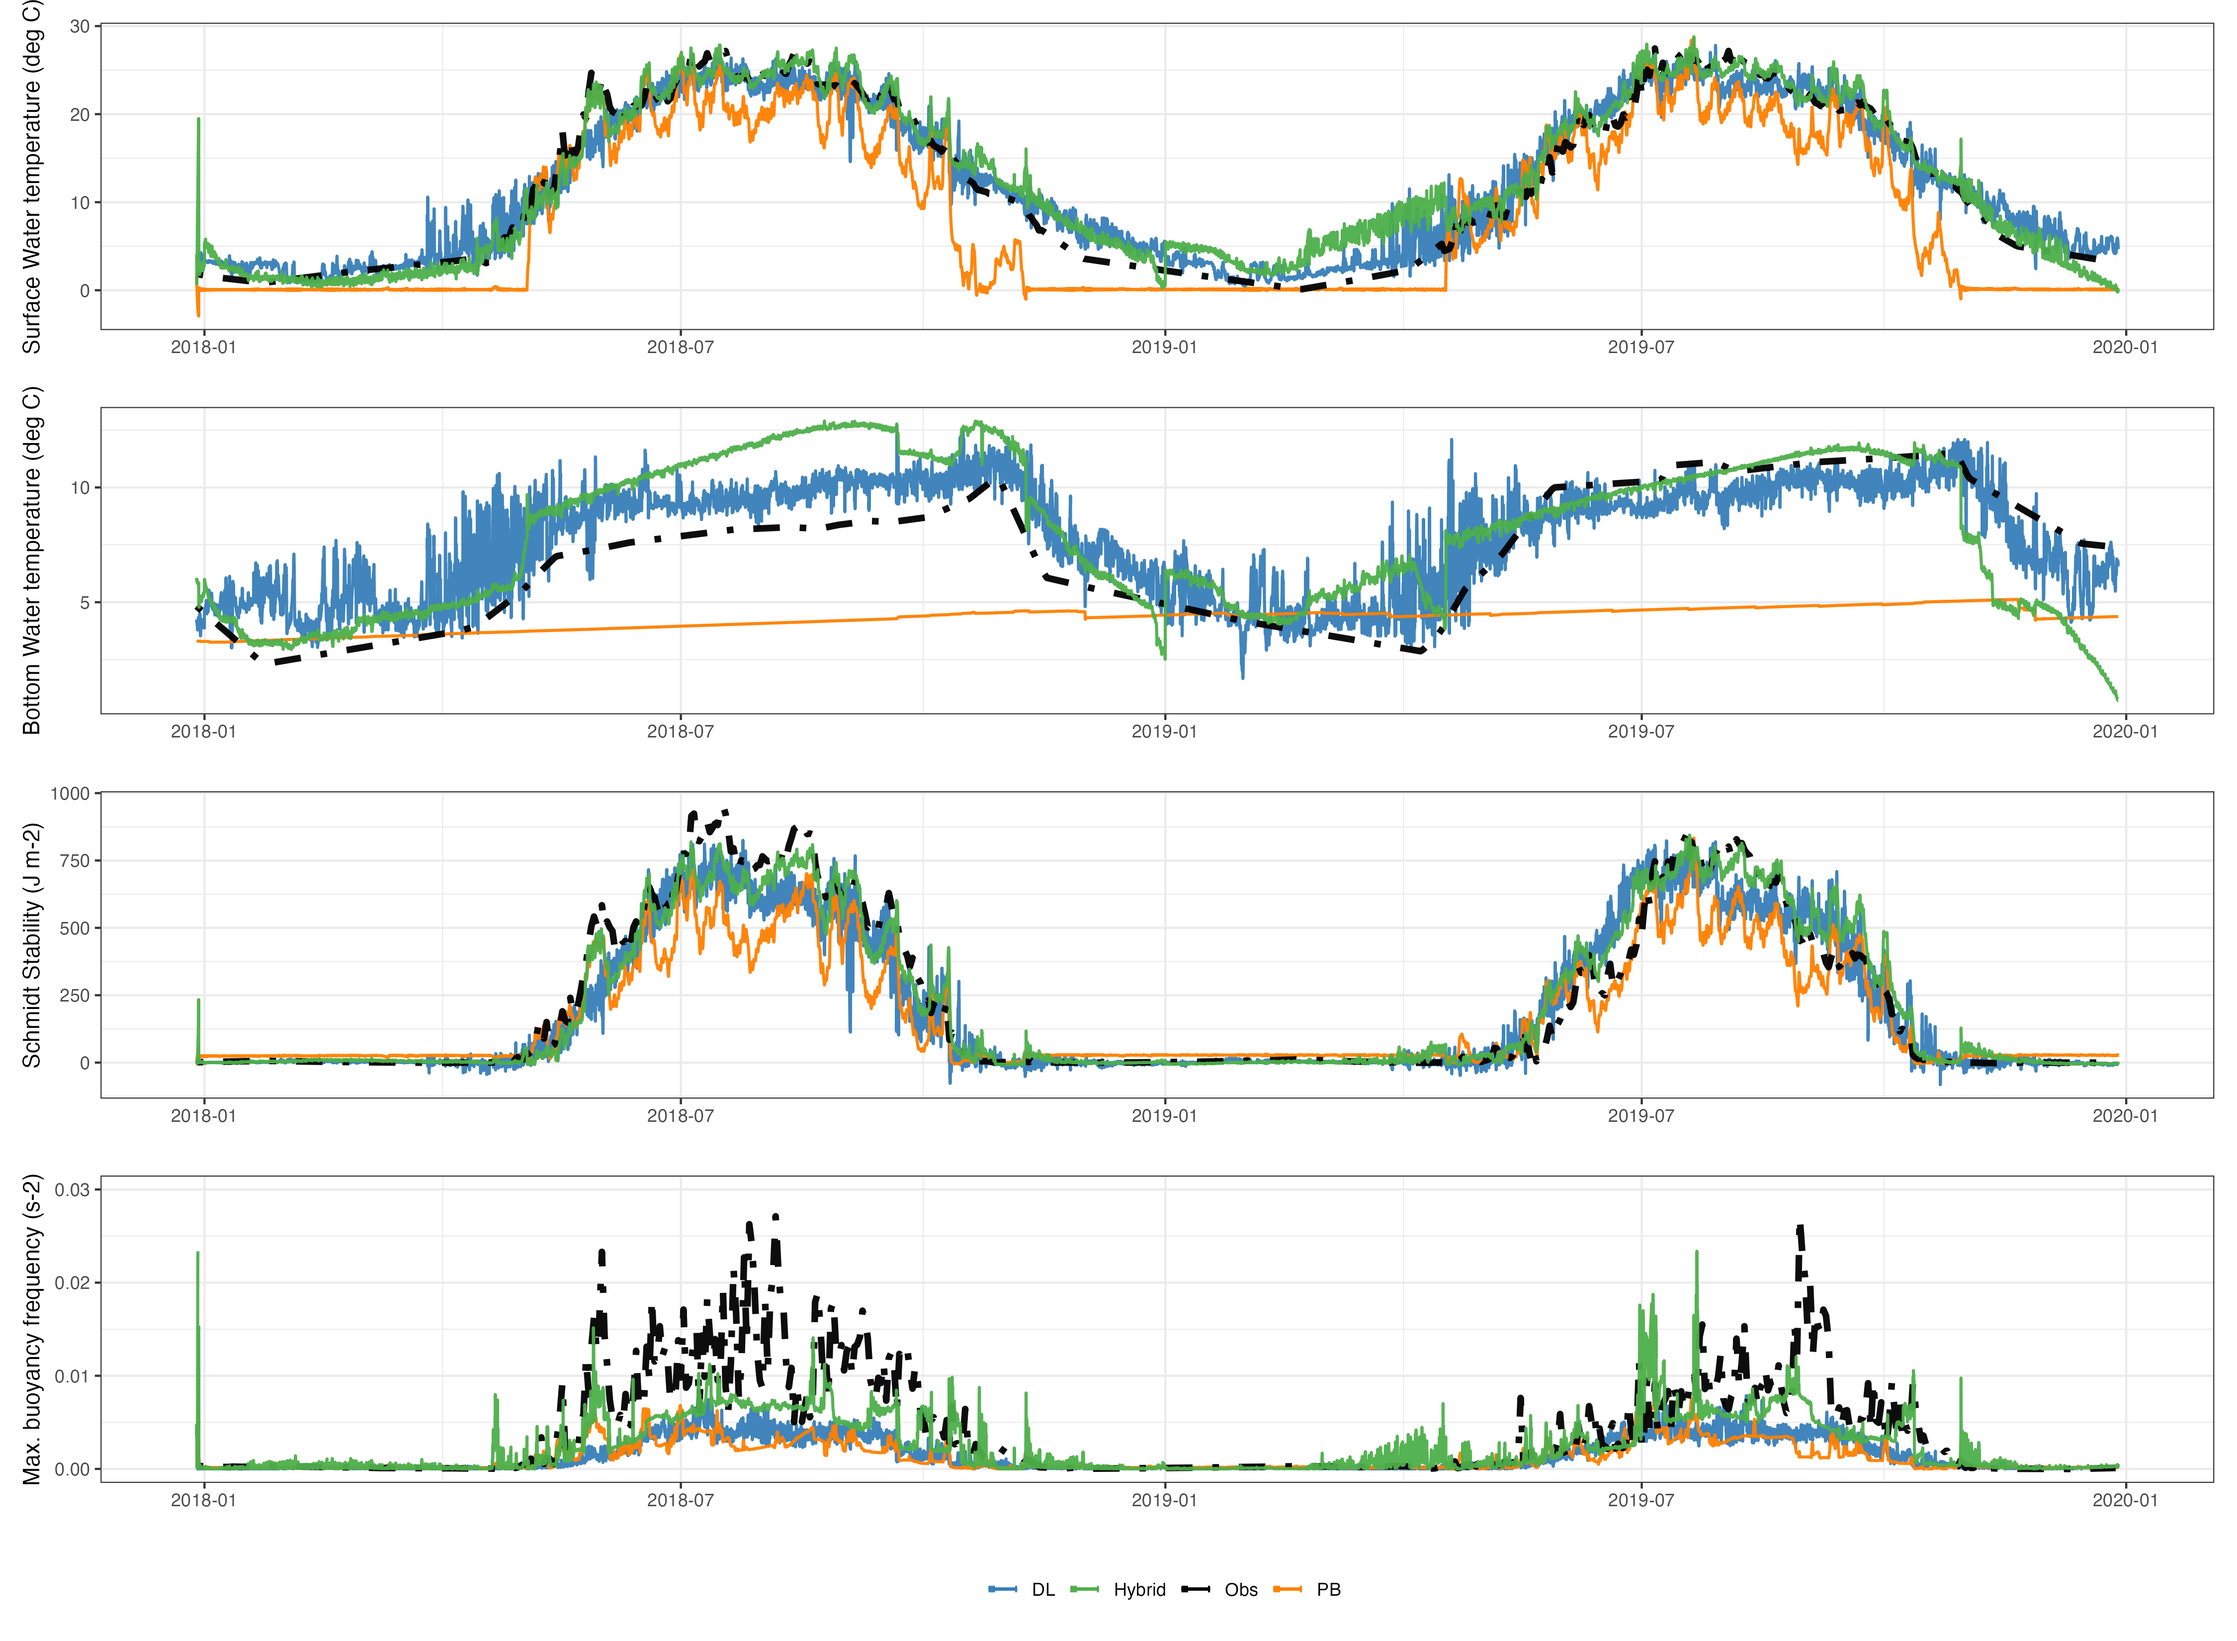
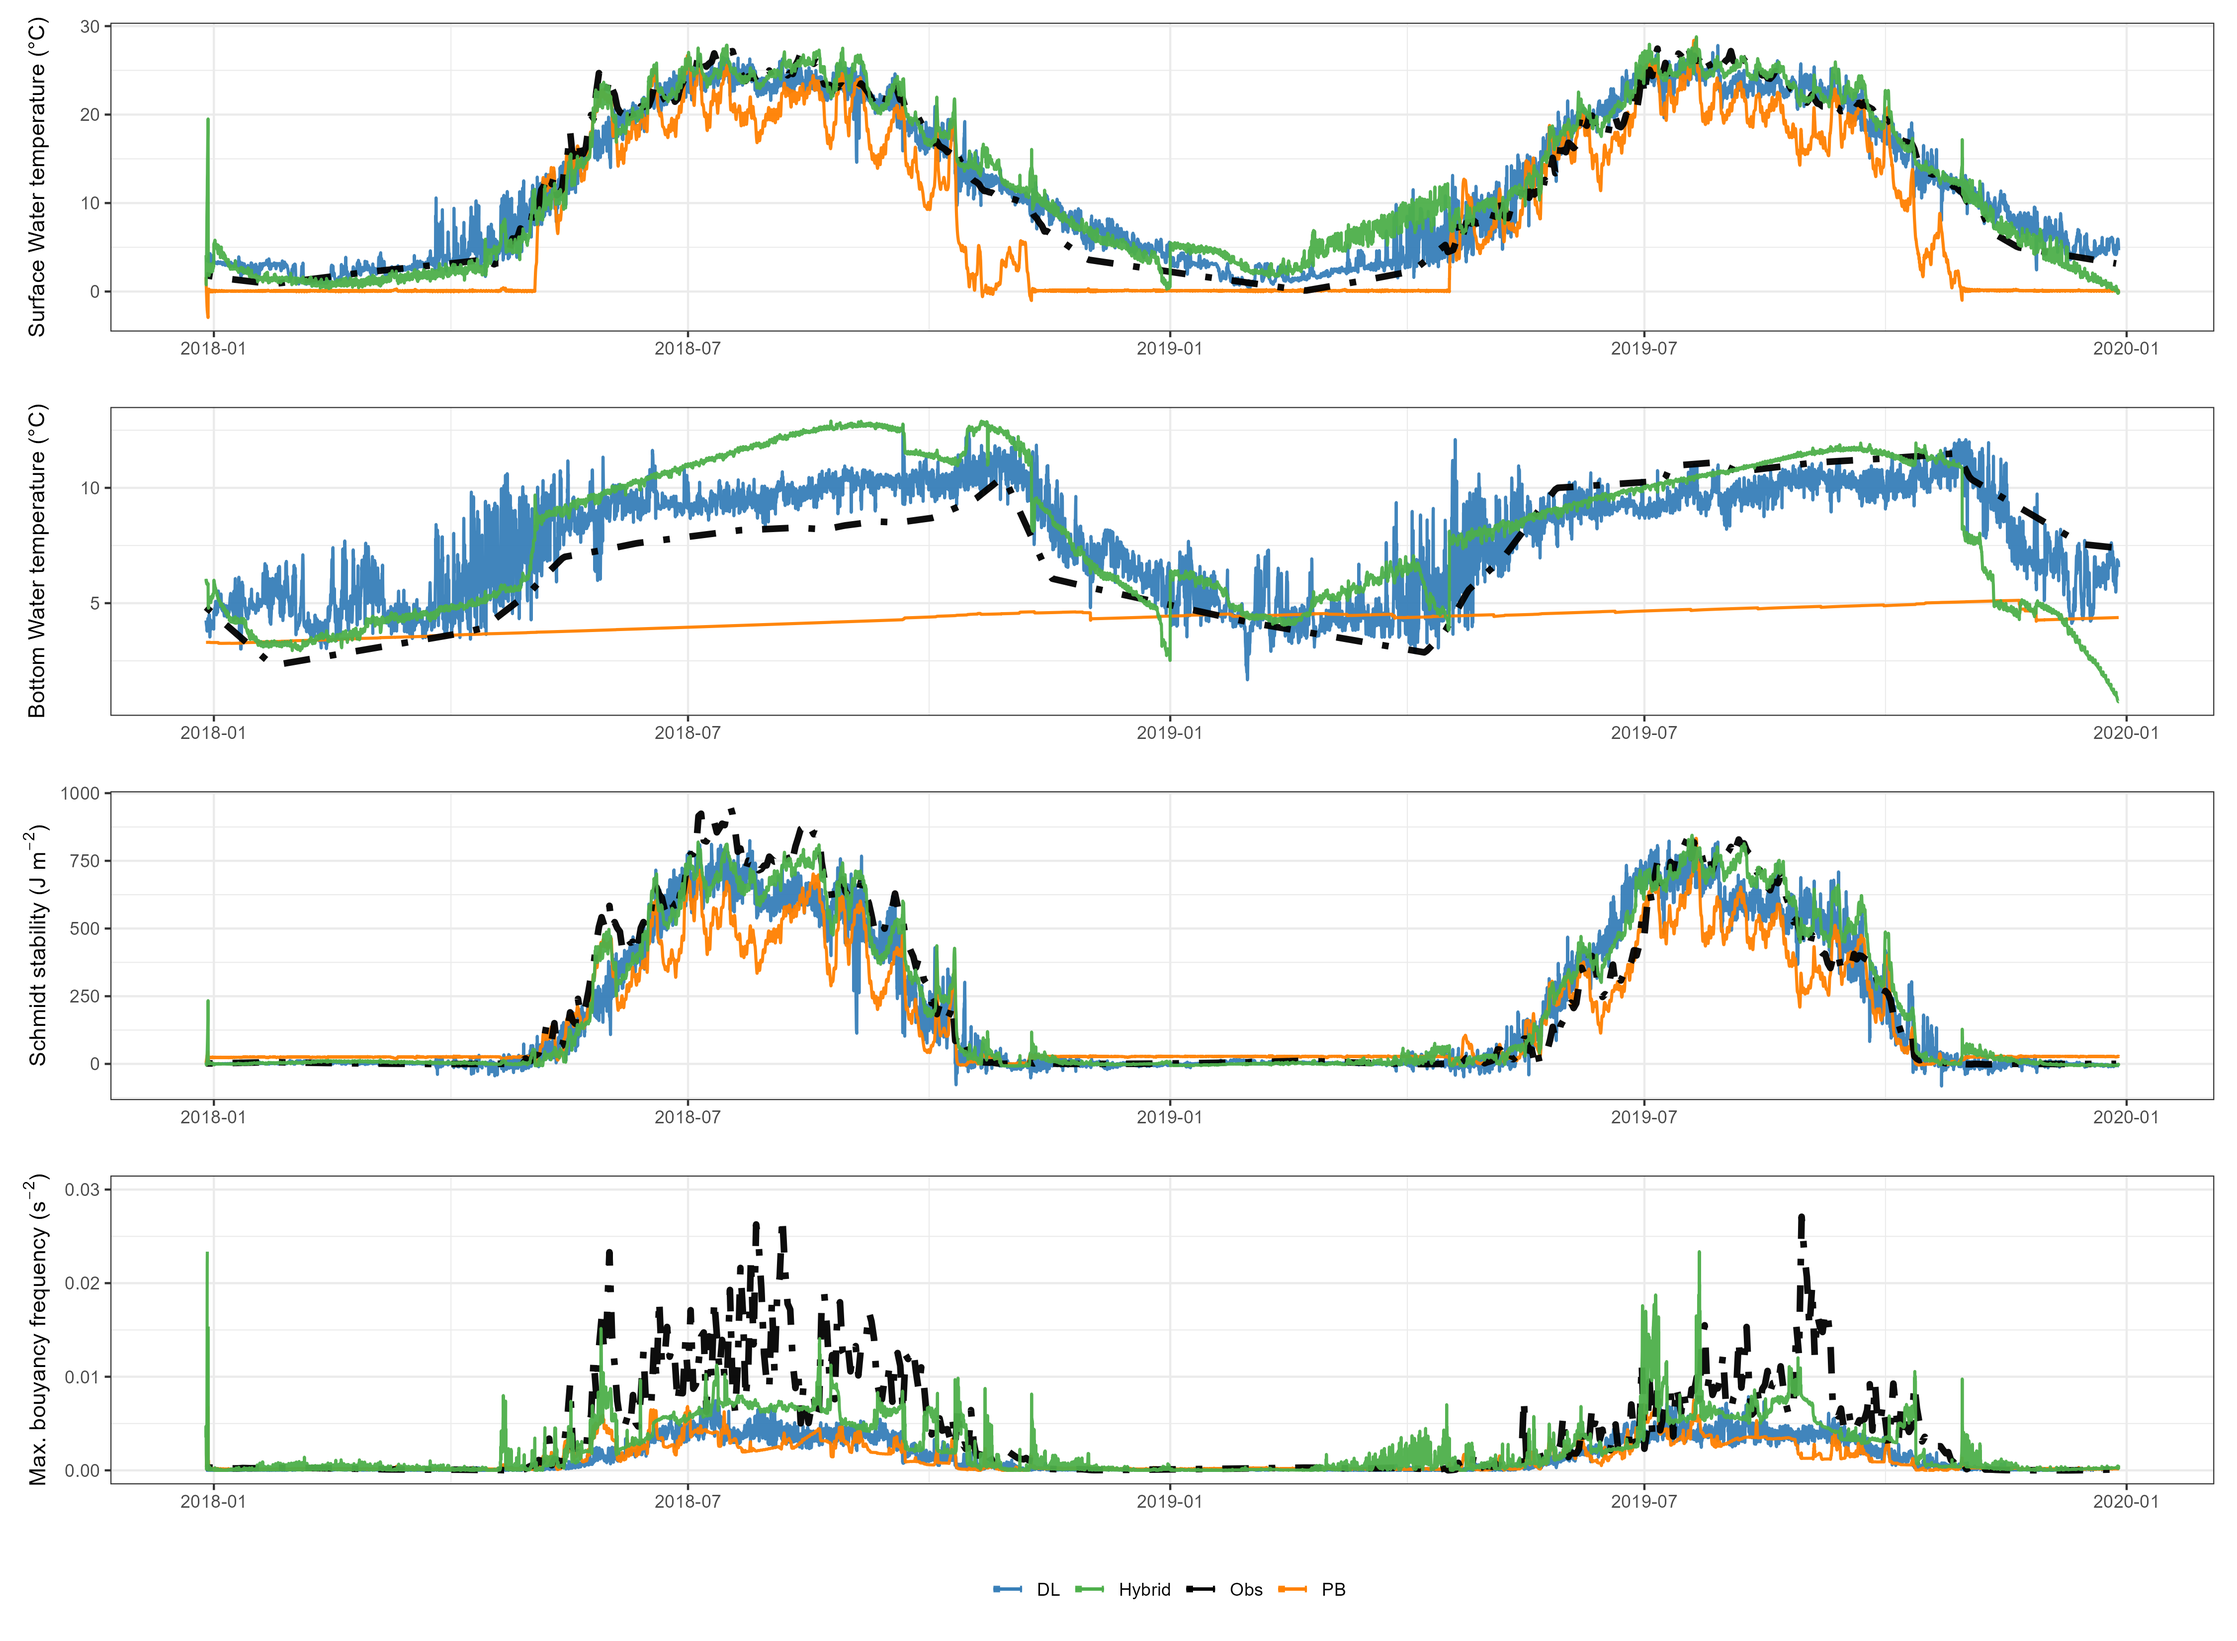
updated figs

diff --git a/src/run_DemoProcessModel.py b/src/run_DemoProcessModel.py
@@ -262,15 +262,27 @@ plt.show()
 
 # heatmap of temps  
 N_pts = 6
-fig, ax = plt.subplots(figsize=(10,8))
+
+## function to calculate density from temperature
+
+def calc_dens(wtemp):
+    dens = (999.842594 + (6.793952 * 1e-2 * wtemp) - (9.095290 * 1e-3 *wtemp**2) +
+      (1.001685 * 1e-4 * wtemp**3) - (1.120083 * 1e-6* wtemp**4) + 
+      (6.536336 * 1e-9 * wtemp**5))
+    return dens
+
+fig, ax = plt.subplots(figsize=(20,10))
 sns.heatmap(temp, cmap=plt.cm.get_cmap('Spectral_r'),  xticklabels=1000, yticklabels=2, vmin = 0, vmax = 35)
+ax.contour(np.arange(.5, temp.shape[1]), np.arange(.5, temp.shape[0]), calc_dens(temp), levels=[998,999.5],
+           colors=['white', 'gray'],
+           linestyles = 'dotted')
 ax.set_ylabel("Depth", fontsize=15)
 ax.set_xlabel("Time", fontsize=15)    
-ax.collections[0].colorbar.set_label("Hybrid Temperature")
+ax.collections[0].colorbar.set_label("Water Temperature  ($^\circ$C)")
 xticks_ix = np.array(ax.get_xticks()).astype(int)
 time_label = times[xticks_ix]
 nelement = len(times)//N_pts
-time_label = time_label[::nelement]
+#time_label = time_label[::nelement]
 ax.xaxis.set_major_locator(plt.MaxNLocator(N_pts))
 ax.set_xticklabels(time_label, rotation=0)
 plt.show()
@@ -294,6 +306,7 @@ perf_obs = dt_obs[dt_obs != -999]
 perfs_sim = temp[dt_obs != -999]
 
 rmse = sqrt((sum((perfs_sim - perf_obs)**2)) / (len(perf_obs)))
+nse = 1 - ((sum((perf_obs - perfs_sim)**2)) / (sum((perf_obs - np.mean(perf_obs))**2)))
 train = sqrt((sum((perfs_sim[0:n_obs] - perf_obs[0:n_obs])**2)) / (n_obs))
 test = sqrt((sum((perfs_sim[(n_obs+1):len(perfs_sim)] - perf_obs[(n_obs+1):len(perf_obs)])**2)) / ((len(perf_obs)- n_obs)))
 
@@ -308,16 +321,18 @@ test = sqrt((sum((perfs_sim[(n_obs+1):len(perfs_sim)] - perf_obs[(n_obs+1):len(p
 # sqrt(sum((temp[0,:] - dt_obs[0,:])**2) / (len(temp[0,:])))
 # sqrt(sum((temp[49,:] - dt_obs[49,:])**2) / (len(temp[49,:])))
 
-N_pts = 6
-fig, ax = plt.subplots(figsize=(10,8))
-sns.heatmap(dt_obs, cmap=plt.cm.get_cmap('Spectral_r'),  xticklabels=1000, yticklabels=2)
+fig, ax = plt.subplots(figsize=(20,10))
+sns.heatmap(dt_obs, cmap=plt.cm.get_cmap('Spectral_r'),  xticklabels=1000, yticklabels=2, vmin = 0, vmax = 35)
+ax.contour(np.arange(.5, temp.shape[1]), np.arange(.5, temp.shape[0]), calc_dens(dt_obs), levels=[998,999.5],
+           colors=['white', 'gray'],
+           linestyles = 'dotted')
 ax.set_ylabel("Depth", fontsize=15)
 ax.set_xlabel("Time", fontsize=15)    
-ax.collections[0].colorbar.set_label("Hybrid Temperature")
+ax.collections[0].colorbar.set_label("Water Temperature  ($^\circ$C)")
 xticks_ix = np.array(ax.get_xticks()).astype(int)
 time_label = times[xticks_ix]
 nelement = len(times)//N_pts
-time_label = time_label[::nelement]
+#time_label = time_label[::nelement]
 ax.xaxis.set_major_locator(plt.MaxNLocator(N_pts))
 ax.set_xticklabels(time_label, rotation=0)
 plt.show()

diff --git a/src/run_HybridModel.py b/src/run_HybridModel.py
@@ -7,6 +7,7 @@ from copy import deepcopy
 import datetime
 import matplotlib.pyplot as plt
 import seaborn as sns
+from scipy import ndimage
 
 from sklearn.preprocessing import StandardScaler
 import torch
@@ -228,15 +229,24 @@ plt.show()
 # heatmap of temps  
 N_pts = 6
 
-fig, ax = plt.subplots(figsize=(10,8))
+def calc_dens(wtemp):
+    dens = (999.842594 + (6.793952 * 1e-2 * wtemp) - (9.095290 * 1e-3 *wtemp**2) +
+      (1.001685 * 1e-4 * wtemp**3) - (1.120083 * 1e-6* wtemp**4) + 
+      (6.536336 * 1e-9 * wtemp**5))
+    return dens
+
+fig, ax = plt.subplots(figsize=(20,10))
 sns.heatmap(temp, cmap=plt.cm.get_cmap('Spectral_r'),  xticklabels=1000, yticklabels=2, vmin = 0, vmax = 35)
+ax.contour(np.arange(.5, temp.shape[1]), np.arange(.5, temp.shape[0]), calc_dens(temp), levels=[998,999.5],
+           colors=['white', 'gray'],
+           linestyles = 'dotted')
 ax.set_ylabel("Depth", fontsize=15)
 ax.set_xlabel("Time", fontsize=15)    
-ax.collections[0].colorbar.set_label("Hybrid Temperature")
+ax.collections[0].colorbar.set_label("Water Temperature  ($^\circ$C)")
 xticks_ix = np.array(ax.get_xticks()).astype(int)
 time_label = times[xticks_ix]
 nelement = len(times)//N_pts
-time_label = time_label[::nelement]
+#time_label = time_label[::nelement]
 ax.xaxis.set_major_locator(plt.MaxNLocator(N_pts))
 ax.set_xticklabels(time_label, rotation=0)
 plt.show()
@@ -271,23 +281,25 @@ perf_obs = dt_obs[dt_obs != -999]
 perfs_sim = temp[dt_obs != -999]
 
 rmse = sqrt((sum((perfs_sim - perf_obs)**2)) / (len(perf_obs)))
+nse = 1 - ((sum((perf_obs - perfs_sim)**2)) / (sum((perf_obs - np.mean(perf_obs))**2)))
 train = sqrt((sum((perfs_sim[0:n_obs] - perf_obs[0:n_obs])**2)) / (n_obs))
 test = sqrt((sum((perfs_sim[(n_obs+1):len(perfs_sim)] - perf_obs[(n_obs+1):len(perf_obs)])**2)) / ((len(perf_obs)- n_obs)))
 
 
 # heatmap of temps  
-fig, ax = plt.subplots(figsize=(10,8))
+fig, ax = plt.subplots(figsize=(20,10))
 sns.heatmap(dt_obs, cmap=plt.cm.get_cmap('Spectral_r'),  xticklabels=1000, yticklabels=2, vmin = 0, vmax = 35)
 ax.set_ylabel("Depth", fontsize=15)
 ax.set_xlabel("Time", fontsize=15)    
-ax.collections[0].colorbar.set_label("Observed Temperature")
+ax.collections[0].colorbar.set_label("Water Temperature  ($^\circ$C)")
 xticks_ix = np.array(ax.get_xticks()).astype(int)
 time_label = times[xticks_ix]
 nelement = len(times)//N_pts
-time_label = time_label[::nelement]
+#time_label = time_label[::nelement]
 ax.xaxis.set_major_locator(plt.MaxNLocator(N_pts))
 ax.set_xticklabels(time_label, rotation=0)
 plt.show()
+
 
 
 # heat temp.

diff --git a/src/run_DeepModel.py b/src/run_DeepModel.py
@@ -232,18 +232,30 @@ plt.show()
 # heatmap of temps  
 N_pts = 6
 
-fig, ax = plt.subplots(figsize=(10,8))
+
+## function to calculate density from temperature
+def calc_dens(wtemp):
+    dens = (999.842594 + (6.793952 * 1e-2 * wtemp) - (9.095290 * 1e-3 *wtemp**2) +
+      (1.001685 * 1e-4 * wtemp**3) - (1.120083 * 1e-6* wtemp**4) + 
+      (6.536336 * 1e-9 * wtemp**5))
+    return dens
+
+fig, ax = plt.subplots(figsize=(20,10))
 sns.heatmap(temp, cmap=plt.cm.get_cmap('Spectral_r'),  xticklabels=1000, yticklabels=2, vmin = 0, vmax = 35)
+ax.contour(np.arange(.5, temp.shape[1]), np.arange(.5, temp.shape[0]), calc_dens(temp), levels=[998,999.5],
+           colors=['white', 'gray'],
+           linestyles = 'dotted')
 ax.set_ylabel("Depth", fontsize=15)
 ax.set_xlabel("Time", fontsize=15)    
-ax.collections[0].colorbar.set_label("Hybrid Temperature")
+ax.collections[0].colorbar.set_label("Water Temperature  ($^\circ$C)")
 xticks_ix = np.array(ax.get_xticks()).astype(int)
 time_label = times[xticks_ix]
 nelement = len(times)//N_pts
-time_label = time_label[::nelement]
+#time_label = time_label[::nelement]
 ax.xaxis.set_major_locator(plt.MaxNLocator(N_pts))
 ax.set_xticklabels(time_label, rotation=0)
 plt.show()
+
 
 dt = pd.read_csv('../input/observed_df_lter_hourly_wide_clean.csv', index_col=0)
 dt=dt.rename(columns = {'DateTime':'time'})
@@ -275,6 +287,7 @@ perf_obs = dt_obs[dt_obs != -999]
 perfs_sim = temp[dt_obs != -999]
 
 rmse = sqrt((sum((perfs_sim - perf_obs)**2)) / (len(perf_obs)))
+nse = 1 - ((sum((perf_obs - perfs_sim)**2)) / (sum((perf_obs - np.mean(perf_obs))**2)))
 train = sqrt((sum((perfs_sim[0:n_obs] - perf_obs[0:n_obs])**2)) / (n_obs))
 test = sqrt((sum((perfs_sim[(n_obs+1):len(perfs_sim)] - perf_obs[(n_obs+1):len(perf_obs)])**2)) / ((len(perf_obs)- n_obs)))
 
